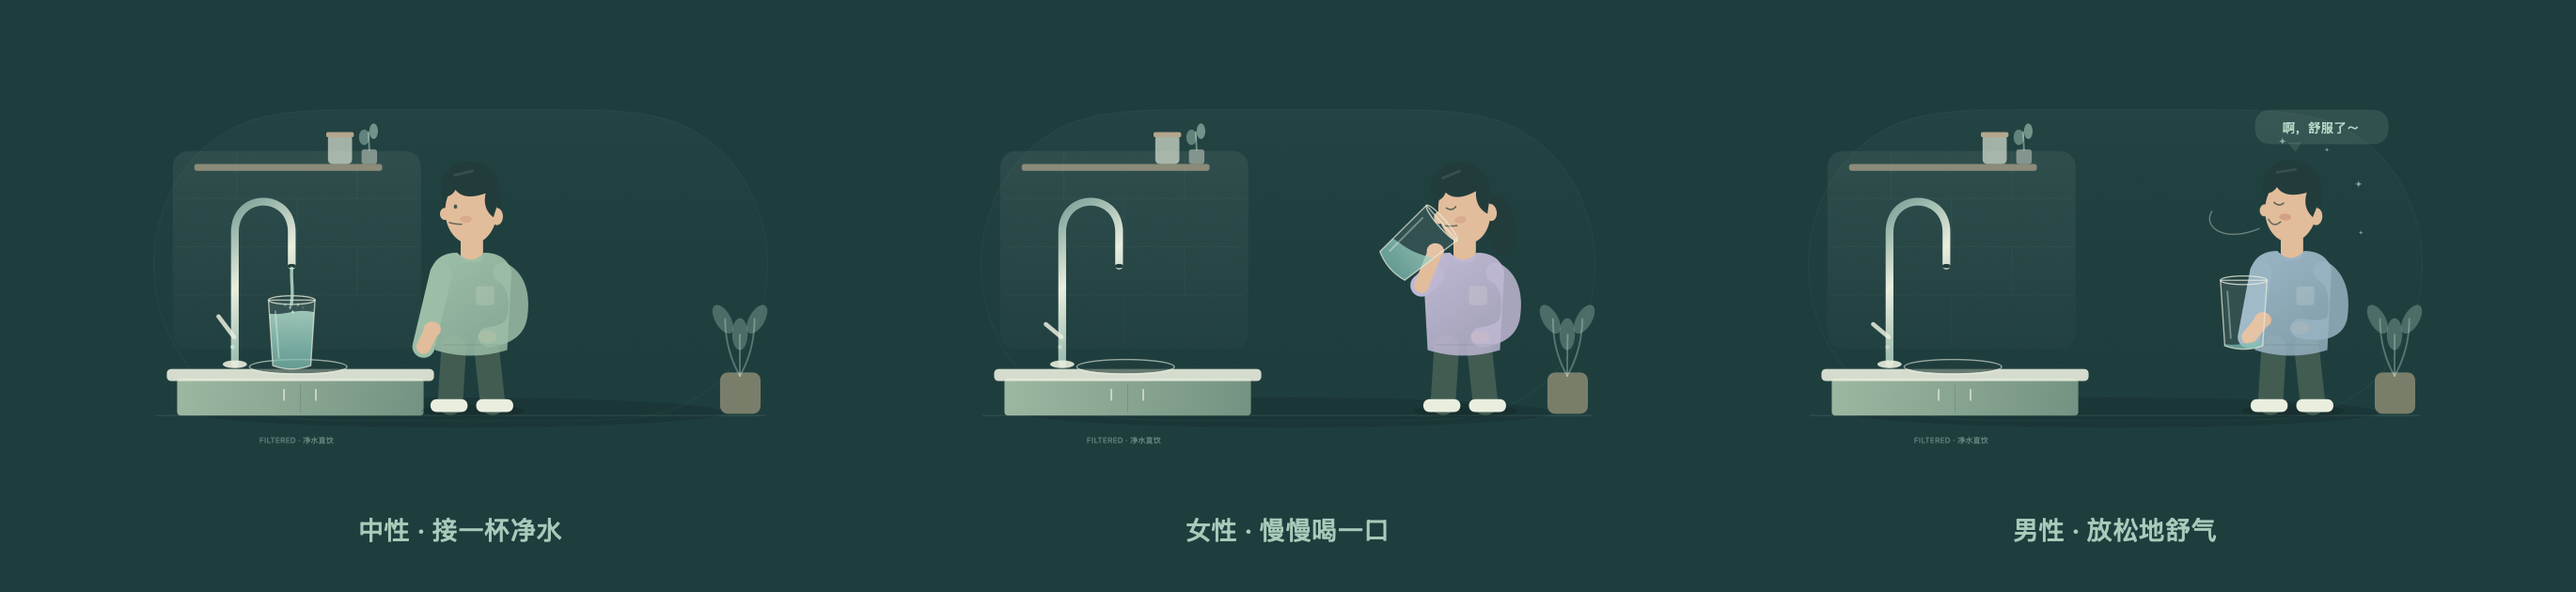
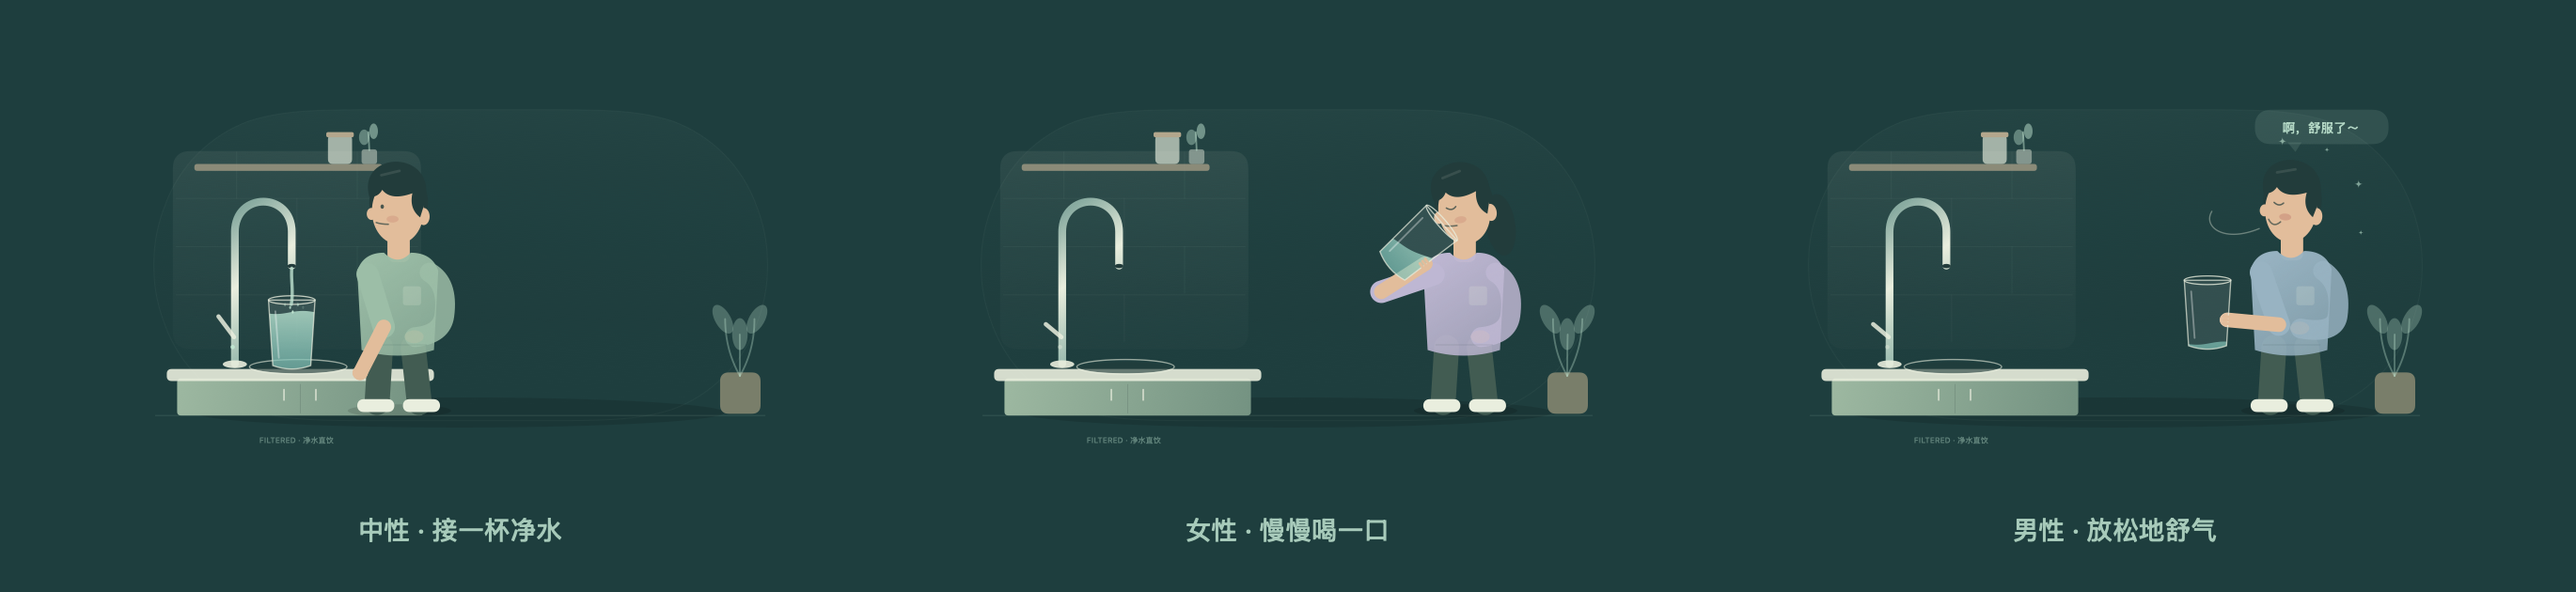
fix: keep arm lengths stable throughout the drinking gesture

Changed region(s): [[0.1241, 0.3317, 0.2172, 0.7238], [0.8376, 0.4524, 0.8996, 0.6032], [0.5274, 0.4222, 0.5584, 0.5127]]

diff --git a/Ripple/Animation/DrinkingRitualScene.swift b/Ripple/Animation/DrinkingRitualScene.swift
@@ -45,12 +45,10 @@ struct DrinkingRitualScene: View {
         drawPlant(scene, time: t)
         drawKitchen(scene, pose: pose)
 
-        let personX = 684 - 192 * pose.approach + 192 * pose.carry
-        let cupX = 238 + 46 * pose.arrival + 345 * pose.carry
-        let cupY = 291 - 103 * pose.carry - sin(pose.carry * .pi) * 12 + 80 * pose.lower
-        let cup = CGPoint(x: cupX, y: cupY)
-        drawPerson(scene, x: personX, cup: cup, pose: pose)
-        drawCup(scene, center: cup, pose: pose)
+        let body = DrinkingBodyPose(timeline: pose)
+        drawPerson(scene, body: body, pose: pose)
+        drawCup(scene, center: body.cupCenter, pose: pose)
+        drawFingers(scene, body: body, pose: pose)
 
         // Water from the spout is above the glass, with tiny splash droplets.
         if pose.stream > 0 {
@@ -70,7 +68,7 @@ struct DrinkingRitualScene: View {
                                   with: .color(Palette.mint.opacity(1 - p)))
             }
         }
-        if pose.relaxed > 0 { drawRelief(scene, x: personX, pose: pose) }
+        if pose.relaxed > 0 { drawRelief(scene, x: Double(body.positionX), pose: pose) }
     }
 
     private func drawKitchen(_ context: GraphicsContext, pose: DrinkingTimeline) {
@@ -127,11 +125,10 @@ struct DrinkingRitualScene: View {
         label(context, "FILTERED · 净水直饮", at: CGPoint(x: 290, y: 414), size: 9, color: Palette.mint.opacity(0.4))
     }
 
-    private func drawPerson(_ context: GraphicsContext, x: Double, cup: CGPoint, pose: DrinkingTimeline) {
-        let t = pose.time
-        let walking = (pose.time > 0.8 && pose.time < 3.9) || (pose.time > 4.9 && pose.time < 6.7)
-        let sway = walking ? sin(t * 10) * 3 : -pose.relaxed * 2
-        let leftFoot = walking ? sin(t * 10) * 12 : 0
+    private func drawPerson(_ context: GraphicsContext, body: DrinkingBodyPose, pose: DrinkingTimeline) {
+        let x = Double(body.positionX)
+        let sway = Double(body.sway)
+        let leftFoot = Double(body.stride)
         let sweater: Color = switch character {
         case .neutral: Color(hex: 0x93BFA5)
         case .woman: Color(hex: 0xC0B7D5)
@@ -219,16 +216,23 @@ struct DrinkingRitualScene: View {
         mouth.addQuadCurve(to: CGPoint(x: -11, y: 19), control: CGPoint(x: -19, y: 19 + pose.relaxed * 8))
         head.stroke(mouth, with: .color(dark.opacity(0.65)), style: StrokeStyle(lineWidth: 1.7, lineCap: .round))
 
-        // The near hand meets the glass before the character carries it away.
-        let rest = CGPoint(x: x - 45, y: 286)
-        let wrist = CGPoint(x: rest.x + (cup.x + 22 - rest.x) * pose.pickup,
-                            y: rest.y + (cup.y + 7 - rest.y) * pose.pickup)
-        let shoulder = CGPoint(x: x - 35, y: 222 + sway)
-        let elbow = CGPoint(x: (shoulder.x + wrist.x) / 2 - 15,
-                            y: max(shoulder.y, wrist.y) + 20 - pose.tilt * 7)
-        line(context, from: shoulder, to: elbow, color: sweater, width: 26)
-        line(context, from: elbow, to: wrist, color: skin, width: 17)
-        context.fill(Path(ellipseIn: CGRect(x: wrist.x - 10, y: wrist.y - 9, width: 20, height: 18)), with: .color(skin))
+        line(context, from: body.shoulder, to: body.elbow, color: sweater, width: 26)
+        line(context, from: body.elbow, to: body.wrist, color: skin, width: 17)
+        context.fill(Path(ellipseIn: CGRect(x: body.wrist.x - 9, y: body.wrist.y - 8, width: 18, height: 16)), with: .color(skin))
+    }
+
+    private func drawFingers(_ context: GraphicsContext, body: DrinkingBodyPose, pose: DrinkingTimeline) {
+        guard pose.grasp > 0 else { return }
+        var hand = context
+        hand.opacity *= pose.grasp
+        hand.translateBy(x: body.cupCenter.x, y: body.cupCenter.y)
+        hand.rotate(by: .degrees(pose.tilt * 49))
+        // The fingers wrap over the rim-side edge; the wrist behind the glass
+        // and these foreground fingers stay attached as the glass rotates.
+        for index in 0..<3 {
+            let y = CGFloat(3 + index * 4)
+            line(hand, from: CGPoint(x: 19, y: y), to: CGPoint(x: 29, y: y + 1), color: skin, width: 3.4)
+        }
     }
 
     private func drawCup(_ context: GraphicsContext, center: CGPoint, pose: DrinkingTimeline) {

diff --git a/scripts/render_motion.swift b/scripts/render_motion.swift
@@ -1,0 +1,79 @@
+import AppKit
+import ImageIO
+import RippleCore
+import SwiftUI
+import UniformTypeIdentifiers
+
+/// Render the real vector scene for motion review without recording a screen.
+@main
+struct MotionRenderer {
+    @MainActor static func main() throws {
+        _ = NSApplication.shared
+        let output = URL(fileURLWithPath: CommandLine.arguments[1])
+        try FileManager.default.createDirectory(at: output, withIntermediateDirectories: true)
+        let size = NSSize(width: 800, height: 380)
+        let hosting = NSHostingView(rootView: AnyView(EmptyView()))
+        let window = NSWindow(contentRect: NSRect(origin: .zero, size: size),
+                              styleMask: .borderless, backing: .buffered, defer: false)
+        window.isReleasedWhenClosed = false
+        window.contentView = hosting
+        defer { window.close() }
+
+        func render<Content: View>(_ content: Content, size: NSSize) throws -> NSBitmapImageRep {
+            window.setContentSize(size)
+            hosting.rootView = AnyView(content.environment(\.rippleStaticAnimation, true))
+            hosting.setFrameSize(size)
+            hosting.layoutSubtreeIfNeeded()
+            RunLoop.main.run(until: Date().addingTimeInterval(0.025))
+            guard let bitmap = NSBitmapImageRep(bitmapDataPlanes: nil,
+                pixelsWide: Int(size.width), pixelsHigh: Int(size.height), bitsPerSample: 8,
+                samplesPerPixel: 4, hasAlpha: true, isPlanar: false,
+                colorSpaceName: .deviceRGB, bytesPerRow: 0, bitsPerPixel: 0) else {
+                throw NSError(domain: "RippleMotion", code: 1)
+            }
+            bitmap.size = size
+            hosting.cacheDisplay(in: hosting.bounds, to: bitmap)
+            return bitmap
+        }
+
+        let frameCount = 108
+        let gifURL = output.appendingPathComponent("pickup-motion.gif")
+        guard let gif = CGImageDestinationCreateWithURL(gifURL as CFURL, UTType.gif.identifier as CFString, frameCount, nil) else {
+            throw NSError(domain: "RippleMotion", code: 2)
+        }
+        CGImageDestinationSetProperties(gif, [kCGImagePropertyGIFDictionary: [kCGImagePropertyGIFLoopCount: 0]] as CFDictionary)
+        for frame in 0..<frameCount {
+            let progress = Double(frame) / Double(frameCount - 1)
+            let time = 2.7 + progress * 4.5
+            let opacity = min(1, min(progress / 0.05, (1 - progress) / 0.05))
+            let scene = DrinkingRitualScene(startedAt: .now, snapshotTime: time)
+                .frame(width: size.width, height: size.height).opacity(opacity)
+                .background(Palette.ocean).id(frame)
+            let bitmap = try render(scene, size: size)
+            guard let image = bitmap.cgImage else { throw NSError(domain: "RippleMotion", code: 3) }
+            CGImageDestinationAddImage(gif, image, [kCGImagePropertyGIFDictionary: [
+                kCGImagePropertyGIFDelayTime: 1.0 / 24,
+                kCGImagePropertyGIFUnclampedDelayTime: 1.0 / 24
+            ]] as CFDictionary)
+        }
+        guard CGImageDestinationFinalize(gif) else { throw NSError(domain: "RippleMotion", code: 4) }
+
+        let times = [3.8, 4.2, 4.6, 4.9, 5.7, 6.7]
+        let contact = VStack(spacing: 16) {
+            ForEach(0..<2, id: \.self) { row in
+                HStack(spacing: 12) {
+                    ForEach(0..<3, id: \.self) { column in
+                        let time = times[row * 3 + column]
+                        VStack(spacing: 8) {
+                            DrinkingRitualScene(startedAt: .now, snapshotTime: time).frame(width: 420, height: 220)
+                            Text(String(format: "%.1f s", time)).font(.system(size: 13)).foregroundStyle(Palette.mint)
+                        }
+                    }
+                }
+            }
+        }.padding(20).background(Palette.ocean)
+        let contactBitmap = try render(contact, size: NSSize(width: 1324, height: 550))
+        try contactBitmap.representation(using: .png, properties: [:])!.write(to: output.appendingPathComponent("pickup-frames.png"))
+        print("Rendered \(gifURL.path) and pickup-frames.png")
+    }
+}

diff --git a/Sources/RippleCore/DrinkingBodyPose.swift b/Sources/RippleCore/DrinkingBodyPose.swift
@@ -1,0 +1,65 @@
+import CoreGraphics
+import Foundation
+
+/// Character and cup share one motion plan. A fixed-length, two-bone arm bends
+/// at the elbow instead of stretching to follow an unreachable glass.
+public struct DrinkingBodyPose: Sendable {
+    public static let upperArmLength: CGFloat = 64
+    public static let forearmLength: CGFloat = 60
+
+    public let positionX: CGFloat
+    public let sway: CGFloat
+    public let stride: CGFloat
+    public let cupCenter: CGPoint
+    public let grip: CGPoint
+    public let shoulder: CGPoint
+    public let elbow: CGPoint
+    public let wrist: CGPoint
+
+    public init(timeline: DrinkingTimeline) {
+        let carry = timeline.carry
+        // Finish walking within a comfortable arm's reach before reaching out.
+        positionX = CGFloat(684 - 277 * timeline.approach + 277 * carry)
+        let walking = sin(.pi * timeline.approach) + sin(.pi * carry)
+        sway = CGFloat(sin(timeline.time * 10) * walking * 2 - timeline.relaxed * 2)
+        stride = CGFloat(sin(timeline.time * 10) * walking * 12)
+
+        // Carry with the torso, then bring the cup toward the face. Holding it
+        // forward until it rises prevents the wrist from crossing the shoulder.
+        cupCenter = CGPoint(
+            x: 238 + 46 * timeline.arrival + 277 * carry + 68 * carry * carry * carry
+                - 35 * carry * (1 - timeline.tilt) * (1 - timeline.withdraw) - 42 * timeline.withdraw,
+            y: 291 - 78 * carry - sin(carry * .pi) * 12 - 25 * timeline.tilt + 55 * timeline.lower
+        )
+        let angle = timeline.tilt * 49 * .pi / 180
+        grip = CGPoint(
+            x: cupCenter.x + CGFloat(23 * cos(angle) - 7 * sin(angle)),
+            y: cupCenter.y + CGFloat(23 * sin(angle) + 7 * cos(angle))
+        )
+        shoulder = CGPoint(x: positionX - 35, y: 222 + sway)
+        let rest = CGPoint(x: positionX - 43, y: 337 + sway)
+        let reach = CGFloat(timeline.pickup)
+        let target = CGPoint(x: rest.x + (grip.x - rest.x) * reach,
+                             y: rest.y + (grip.y - rest.y) * reach)
+        let joints = Self.solveArm(shoulder: shoulder, target: target)
+        elbow = joints.elbow
+        wrist = joints.wrist
+    }
+
+    private static func solveArm(shoulder: CGPoint, target: CGPoint) -> (elbow: CGPoint, wrist: CGPoint) {
+        let dx = target.x - shoulder.x
+        let dy = target.y - shoulder.y
+        let requested = max(sqrt(dx * dx + dy * dy), 0.001)
+        let distance = min(max(requested, abs(upperArmLength - forearmLength) + 0.001),
+                           upperArmLength + forearmLength - 0.001)
+        let ux = dx / requested
+        let uy = dy / requested
+        let projection = (upperArmLength * upperArmLength - forearmLength * forearmLength + distance * distance) / (2 * distance)
+        let height = sqrt(max(0, upperArmLength * upperArmLength - projection * projection))
+        // Keep the same bend direction throughout the gesture, including the sip.
+        let elbow = CGPoint(x: shoulder.x + ux * projection + uy * height,
+                            y: shoulder.y + uy * projection - ux * height)
+        let wrist = CGPoint(x: shoulder.x + ux * distance, y: shoulder.y + uy * distance)
+        return (elbow, wrist)
+    }
+}

diff --git a/Tests/RippleCoreTests/DrinkingBodyPoseTests.swift b/Tests/RippleCoreTests/DrinkingBodyPoseTests.swift
@@ -1,0 +1,55 @@
+import CoreGraphics
+import XCTest
+@testable import RippleCore
+
+final class DrinkingBodyPoseTests: XCTestCase {
+    private func distance(_ a: CGPoint, _ b: CGPoint) -> CGFloat {
+        let dx = a.x - b.x
+        let dy = a.y - b.y
+        return sqrt(dx * dx + dy * dy)
+    }
+
+    func testArmSegmentsKeepTheirLengthThroughoutTheRitual() {
+        for frame in 0..<1800 {
+            let pose = DrinkingBodyPose(timeline: DrinkingTimeline(elapsed: Double(frame) / 120))
+            XCTAssertEqual(distance(pose.shoulder, pose.elbow), DrinkingBodyPose.upperArmLength, accuracy: 0.0001)
+            XCTAssertEqual(distance(pose.elbow, pose.wrist), DrinkingBodyPose.forearmLength, accuracy: 0.0001)
+        }
+    }
+
+    func testCupIsWithinReachAndHandRemainsAttachedAfterPickup() {
+        for frame in 294..<900 {
+            let pose = DrinkingBodyPose(timeline: DrinkingTimeline(elapsed: Double(frame) / 60))
+            XCTAssertLessThan(distance(pose.shoulder, pose.grip), DrinkingBodyPose.upperArmLength + DrinkingBodyPose.forearmLength)
+            XCTAssertEqual(distance(pose.wrist, pose.grip), 0, accuracy: 0.0001)
+        }
+    }
+
+    func testWalkingStopsBeforeReachAndGraspFinishesBeforeCarry() {
+        for frame in 0..<900 {
+            let timeline = DrinkingTimeline(elapsed: Double(frame) / 60)
+            if timeline.pickup > 0 { XCTAssertEqual(timeline.approach, 1) }
+            if timeline.carry > 0 {
+                XCTAssertEqual(timeline.pickup, 1)
+                XCTAssertEqual(timeline.grasp, 1)
+            }
+        }
+    }
+
+    func testHandRotatesAroundGlassDuringSip() {
+        let upright = DrinkingBodyPose(timeline: DrinkingTimeline(elapsed: 6.5))
+        let tilted = DrinkingBodyPose(timeline: DrinkingTimeline(elapsed: 8.2))
+        XCTAssertEqual(distance(upright.wrist, upright.cupCenter), distance(tilted.wrist, tilted.cupCenter), accuracy: 0.0001)
+        XCTAssertLessThan(tilted.wrist.x - tilted.cupCenter.x, upright.wrist.x - upright.cupCenter.x)
+        XCTAssertGreaterThan(tilted.wrist.y - tilted.cupCenter.y, upright.wrist.y - upright.cupCenter.y)
+    }
+
+    func testElbowDoesNotJumpWhenReachingLiftingOrLowering() {
+        var previous = DrinkingBodyPose(timeline: DrinkingTimeline(elapsed: 0))
+        for frame in 1..<1800 {
+            let pose = DrinkingBodyPose(timeline: DrinkingTimeline(elapsed: Double(frame) / 120))
+            XCTAssertLessThan(distance(previous.elbow, pose.elbow), 3, "Elbow jumped at frame \(frame)")
+            previous = pose
+        }
+    }
+}

diff --git a/Sources/RippleCore/DrinkingTimeline.swift b/Sources/RippleCore/DrinkingTimeline.swift
@@ -21,11 +21,13 @@ public struct DrinkingTimeline: Sendable {
     }
 
     public var arrival: Double { ease(0.2, 1.2) }
-    public var approach: Double { ease(0.8, 3.9) }
-    public var pickup: Double { ease(4.3, 4.9) }
+    public var approach: Double { ease(0.8, 3.8) }
+    public var pickup: Double { ease(3.95, 4.75) }
+    public var grasp: Double { ease(4.75, 4.9) }
     public var carry: Double { ease(4.9, 6.7) }
-    public var tilt: Double { ease(6.8, 7.6) * (1 - ease(8.8, 9.6)) }
+    public var tilt: Double { ease(6.55, 7.1) * (1 - ease(8.8, 9.6)) }
     public var lower: Double { ease(9.5, 10.6) }
+    public var withdraw: Double { ease(9.35, 10.05) }
     public var relaxed: Double { ease(10.4, 11.2) }
     public var water: Double { ease(1.4, 4.5) * (1 - ease(7.1, 9.1)) }
     public var stream: Double { ease(1.35, 1.6) * (1 - ease(4.25, 4.55)) }

diff --git a/docs/VALIDATION.md b/docs/VALIDATION.md
@@ -11,16 +11,17 @@
 
 ## 自动验证
 
-`swift test`：**23 项测试通过，0 失败**。
+`swift test`：**28 项测试通过，0 失败**。
 
 | 范围 | 数量 | 验证点 |
 | --- | --- | --- |
 | 提醒时间 | 9 | 起止包含规则、时段前后、跨午夜、全天、延后、窄时段、夏令时缺失小时、数值归一化 |
 | 屏幕路由 | 7 | 主屏、左侧负坐标、上方屏幕、全部屏幕、未匹配回退、无屏幕、相邻边界 |
 | 动作时间线 | 4 | 接水 / 携杯 / 喝水 / 放松顺序、杯中水量、循环重置、静态放松姿态 |
+| 手臂与拿杯动作 | 5 | 固定骨骼长度、可触及杯子、先走近再握杯、手腕随杯旋转、肘部连续性 |
 | 偏好保存 | 3 | 旧偏好兼容、三种人物序列化、缺失字段默认值；人物切换不改变提醒计划 |
 
-工程迁移到 Documents 后，使用新的构建缓存完成 Debug 构建，23 项核心测试再次通过。Release 无签名构建也通过，产物包含 arm64 与 x86_64；Intel 硬件运行仍需实际验证。Debug 本地 ad-hoc 签名已通过 `codesign --verify --deep --strict` 检查，两个音频资源均打包在应用中。默认本地签名为 ad-hoc；Xcode 会提示这种签名下关闭 Hardened Runtime，不表示已经完成 Developer ID 分发。
+工程迁移到 Documents 后完成了 Debug 与 Release 构建。拿杯动作修复后，28 项核心测试再次通过；固定骨骼长度与连续性测试逐帧覆盖整段动作。Release 产物包含 arm64 与 x86_64；Intel 硬件运行仍需实际验证。Debug 本地 ad-hoc 签名通过 `codesign --verify --deep --strict` 检查，两个音频资源均打包在应用中。默认本地签名为 ad-hoc；Xcode 会提示这种签名下关闭 Hardened Runtime，不表示已经完成 Developer ID 分发。
 
 `./scripts/smoke_test.sh` 应用状态集成检查通过：使用独立的临时 UserDefaults，运行真实 1 分钟 Timer，确认自动触发，再检查 5 分钟延后与暂停。同时验证了预览不改变计划、不记水，以及记录 / 撤销行为。检查不打开提醒窗口，不改动真实数据。
 

diff --git a/docs/ARCHITECTURE.md b/docs/ARCHITECTURE.md
@@ -80,6 +80,8 @@ RippleApp
 
 全屏 `DrinkingRitualScene` 使用 960 × 440 逻辑画布呈现开放式厨房台面、水槽与鹅颈直饮净水龙头。人物走近接水、拿杯、倾斜喝水、放下杯子并微笑舒气。`RippleCore.DrinkingTimeline` 提供 15 秒循环动作的阶段与缓动进度，所有屏幕使用同一个开始时间。减少动态效果时固定为喝水后放松的画面。
 
+`DrinkingBodyPose` 统一规划身体、杯子与手臂的位置。人物先走到手臂可触及范围，再伸手、握住杯子并携杯后退。上臂与前臂使用固定长度的两段骨骼，通过两圆交点求肘部位置；手腕与前景手指跟随杯子的旋转。步幅和身体起伏在走路起停时缓入缓出，避免动作跳变。整段时间线的骨骼长度、握杯位置与肘部连续性由测试约束。
+
 人物提供中性、女性、男性三种表现，使用同样的动作、节奏与交互，通过发型与服装配色区分。设置中的 `ReminderCharacter` 在创建提醒 Session 时固定，避免一个提醒内出现状态变化。
 
 `HydrationRitual.wav` 是与时间线同步的 15 秒合成音效：1.45 秒开始流水，7.15–8.64 秒分三次咕嘟，10.65 秒轻呼气。确认按钮播放短 `Satisfied.wav`。`AVAudioPlayer` 由窗口控制器持有，多屏不会叠加播放，关闭提醒会停止声音。系统 Reduce Motion 开启时，配合静态画面只播放一次短舒气声。音效默认关闭，可在设置启用。

diff --git a/docs/DEVELOPMENT.md b/docs/DEVELOPMENT.md
@@ -95,6 +95,8 @@ python3 scripts/make_sounds.py
 
 该脚本从视图渲染图片，不读取屏幕像素，也不改动真实应用的饮水数据。`docs/images/` 中的图片属于应用视图渲染，真实界面还包含 macOS 窗口边框。
 
+检查拿杯动作的连续变化，可执行 `./scripts/render_motion.sh`，在 `.local/` 导出动态 GIF 和六帧对照图。它们直接使用应用的矢量代码渲染，属于开发用配图，不会被打包为应用动画。
+
 ## 开发约定
 
 - UI 与窗口管理在主 actor 执行；时间与屏幕计算留在 `RippleCore`。

diff --git a/CHANGELOG.md b/CHANGELOG.md
@@ -4,6 +4,11 @@
 
 ## [Unreleased]
 
+### Fixed
+
+- 人物先走近杯子再屈肘、握杯与举杯，固定上臂与前臂长度，修复拿杯时手臂突然拉长的问题。
+- 手掌随杯子倾斜旋转，增加握杯手指，平滑走路起停与放杯动作。
+
 ## [0.1.0] - 2026-11-06
 
 ### Added
